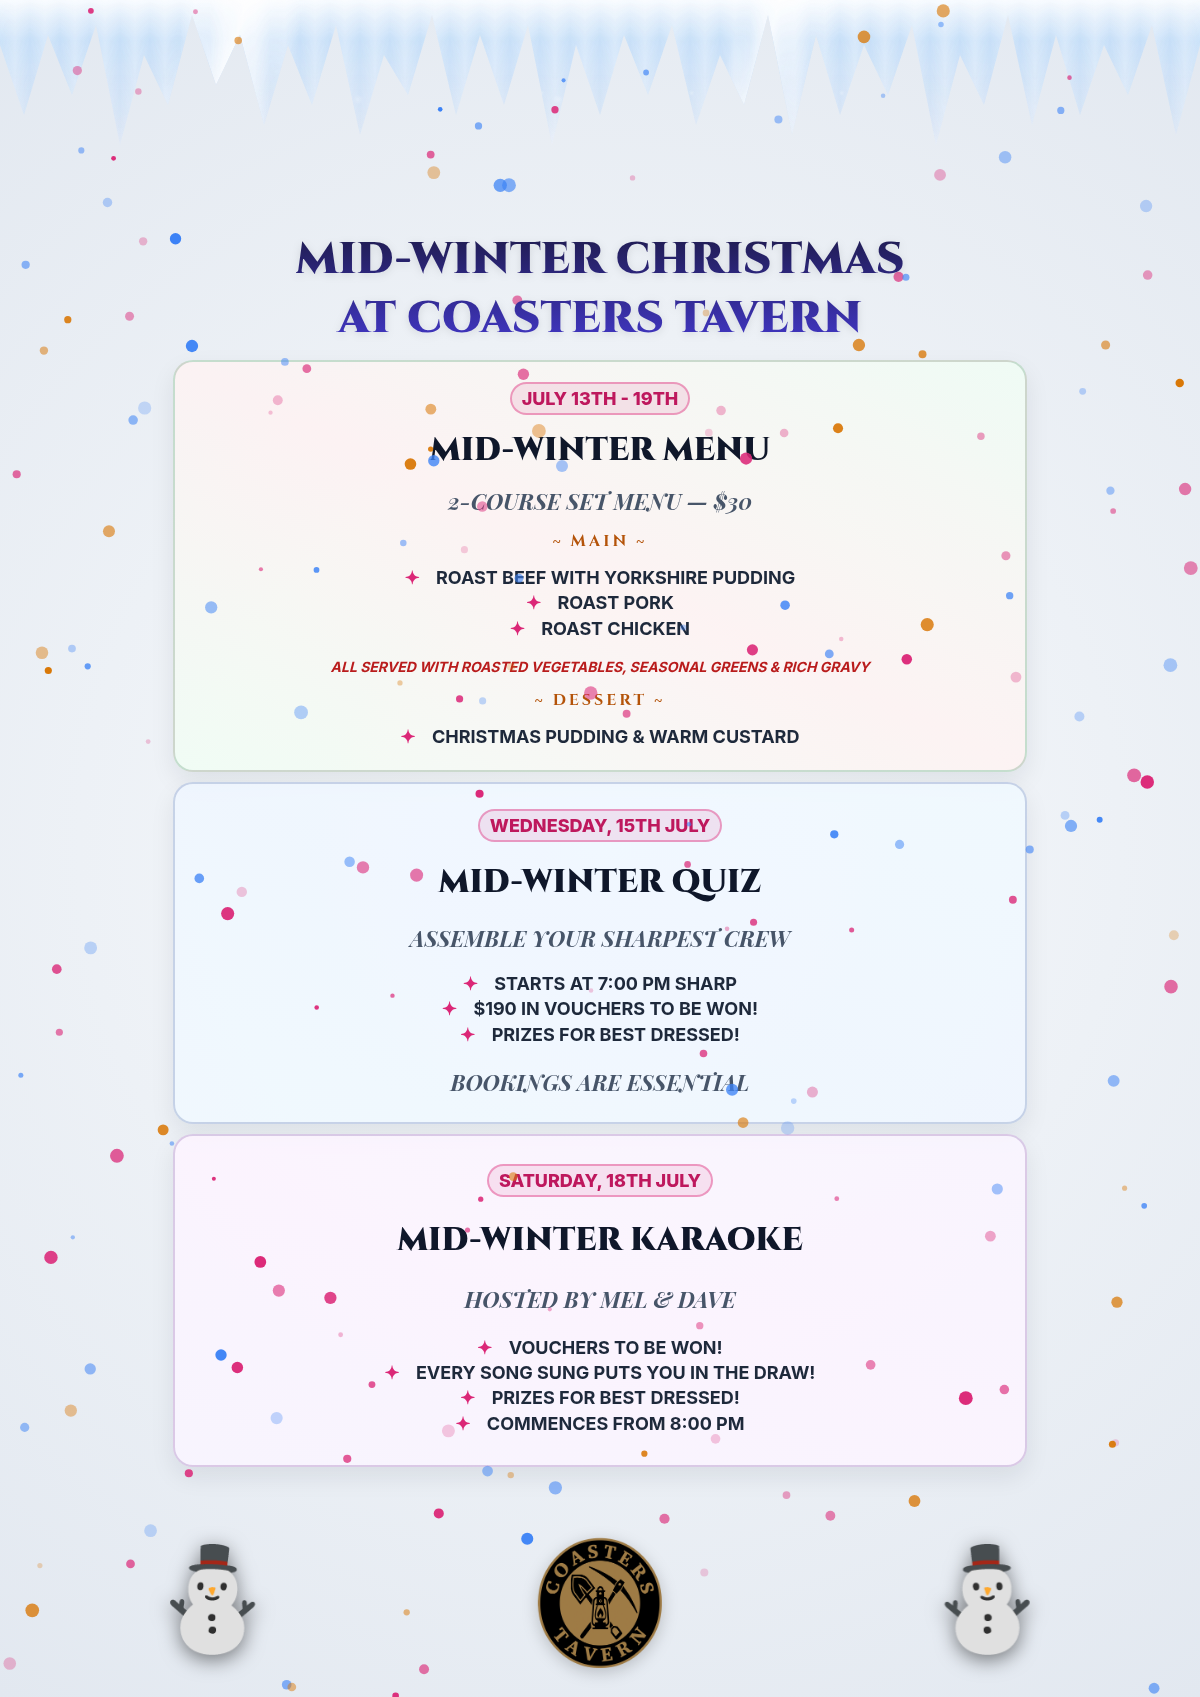
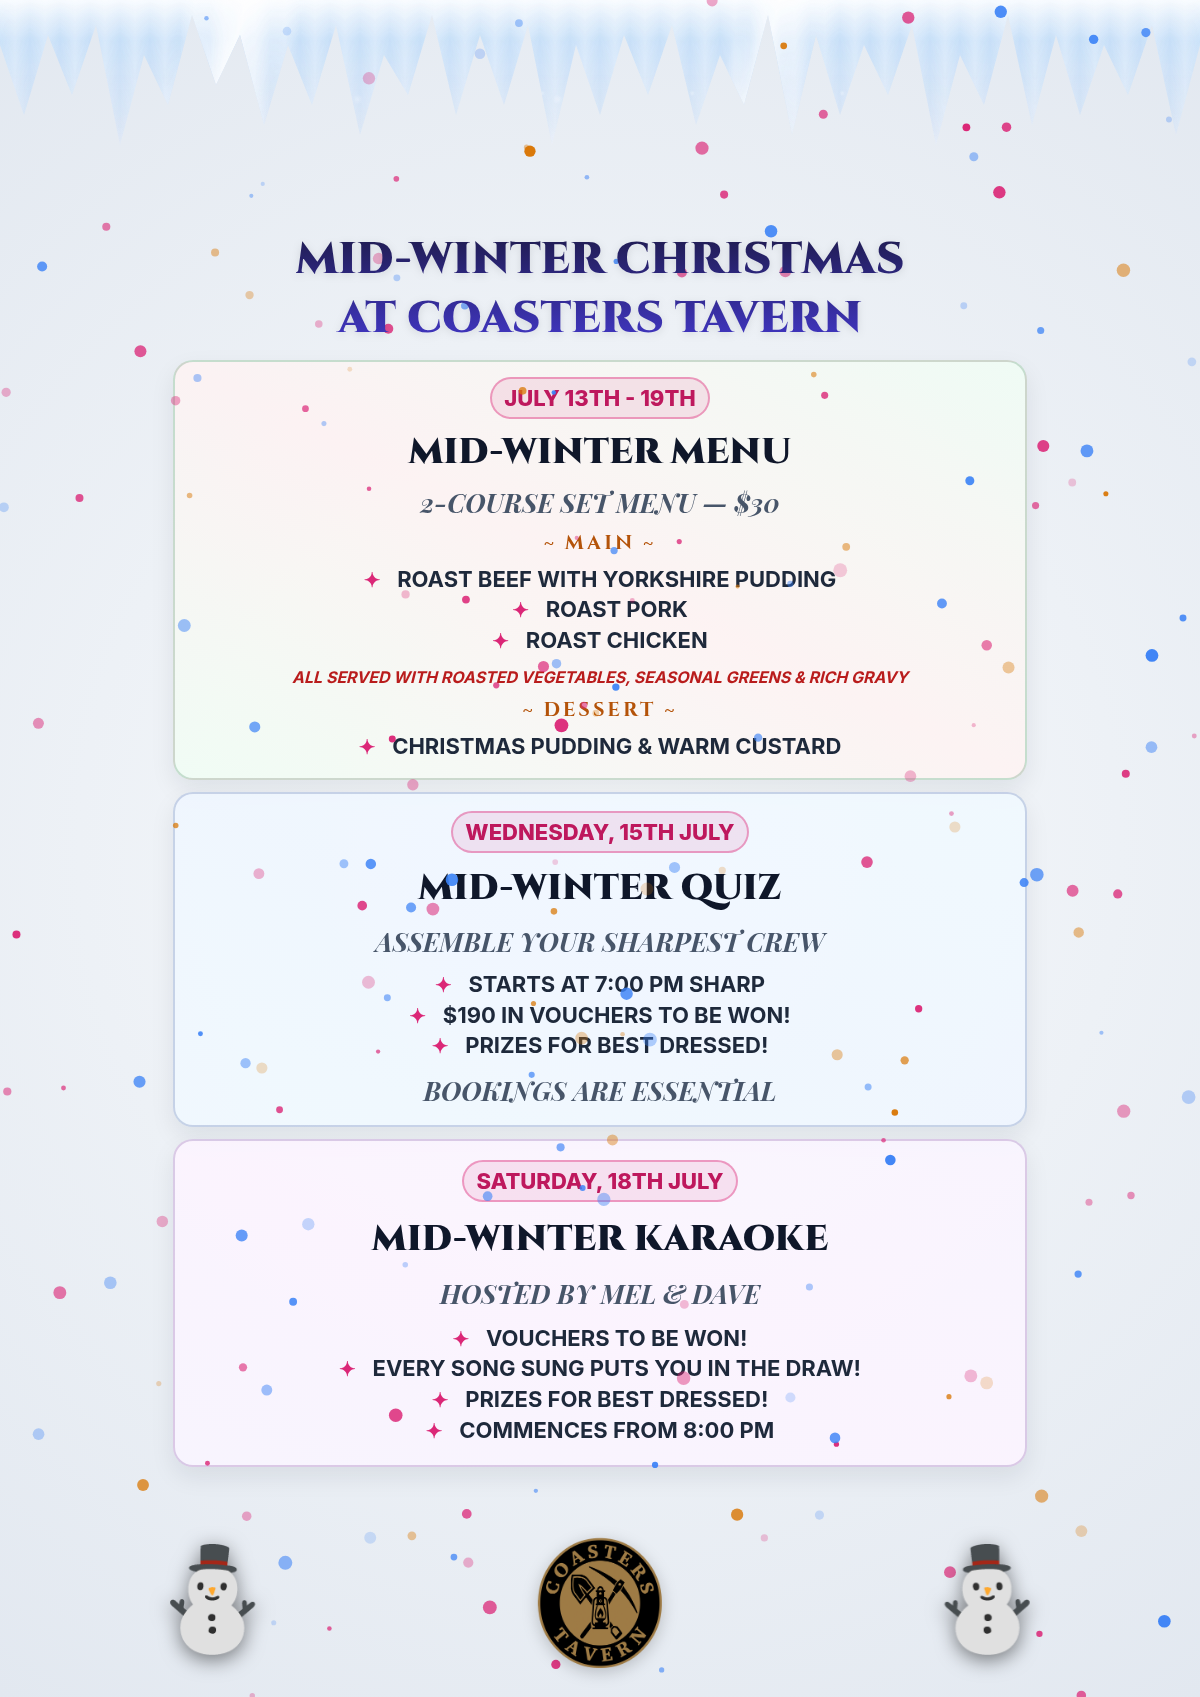
Enlarge poster text sizes to maximum safe dimensions without overspill or awkward wrapping

diff --git a/poster_all_a3_dark.html b/poster_all_a3_dark.html
@@ -67,30 +67,30 @@
             font-family: 'Cinzel', serif; font-size: 64px; font-weight: 900; 
             background: linear-gradient(to bottom, #ffffff, #fde047, #f472b6); 
             -webkit-background-clip: text; color: transparent; text-align: center; 
-            margin-top: 0px; margin-bottom: 20px; z-index: 40; position: relative; text-transform: uppercase;
+            margin-top: 0px; margin-bottom: 16px; z-index: 40; position: relative; text-transform: uppercase;
             filter: brightness(1.2) drop-shadow(0 0 20px rgba(255, 255, 255, 0.8)) drop-shadow(0 0 30px rgba(59, 130, 246, 1));
         }
         .slide-container { 
             display: flex; flex-direction: column; align-items: center; 
             justify-content: space-evenly; height: 100%; width: 100%; 
-            position: relative; z-index: 20; padding-bottom: 0px; box-sizing: border-box; flex-grow: 1; gap: 16px;
+            position: relative; z-index: 20; padding-bottom: 0px; box-sizing: border-box; flex-grow: 1; gap: 12px;
         }
         .glass-box {
             border-radius: 20px;
-            border: 2px solid rgba(255, 255, 255, 0.2); padding: 14px 24px;
+            border: 2px solid rgba(255, 255, 255, 0.2); padding: 12px 24px;
             box-shadow: 0 10px 25px rgba(0, 0, 0, 0.8), inset 0 0 20px rgba(255,255,255,0.1); 
             text-align: center; width: 100%; box-sizing: border-box;
             display: flex; flex-direction: column; justify-content: space-evenly; align-items: center;
-            flex-grow: 1; gap: 6px;
+            flex-grow: 1; gap: 4px;
         }
         h1 { font-family: 'Cinzel', serif; font-size: 40px; font-weight: 900; color: #fff; margin: 0; text-shadow: 0 3px 10px rgba(0,0,0,0.5), 0 0 20px rgba(59, 130, 246, 0.8); }
-        h2 { font-family: 'Playfair Display', serif; font-size: 26px; font-weight: bold; font-style: italic; color: #fce7f3; margin: 0; text-shadow: 0 3px 10px rgba(0,0,0,0.5), 0 0 20px rgba(59, 130, 246, 0.8); }
-        .course-title { font-family: 'Cinzel', serif; font-size: 20px; font-weight: bold; color: #fbbf24; margin: 0; letter-spacing: 4px; text-shadow: 0 0 15px rgba(59, 130, 246, 0.8); }
-        .date-badge { display: inline-block; background: rgba(0, 0, 0, 0.3); border: 2px solid rgba(236, 72, 153, 0.6); padding: 6px 14px; font-size: 22px; color: #f9a8d4; border-radius: 50px; margin: 0; box-shadow: 0 3px 10px rgba(0,0,0,0.5); font-weight: 900; }
+        h2 { font-family: 'Playfair Display', serif; font-size: 28px; font-weight: bold; font-style: italic; color: #fce7f3; margin: 0; text-shadow: 0 3px 10px rgba(0,0,0,0.5), 0 0 20px rgba(59, 130, 246, 0.8); }
+        .course-title { font-family: 'Cinzel', serif; font-size: 22px; font-weight: bold; color: #fbbf24; margin: 0; letter-spacing: 4px; text-shadow: 0 0 15px rgba(59, 130, 246, 0.8); }
+        .date-badge { display: inline-block; background: rgba(0, 0, 0, 0.3); border: 2px solid rgba(236, 72, 153, 0.6); padding: 6px 14px; font-size: 24px; color: #f9a8d4; border-radius: 50px; margin: 0; box-shadow: 0 3px 10px rgba(0,0,0,0.5); font-weight: 900; }
         ul { list-style: none; padding: 0; margin: 0; text-align: center; width: 100%; }
-        li { font-size: 22px; font-weight: bold; margin-bottom: 3px; color: #e0e0e0; text-shadow: 0 2px 8px rgba(0,0,0,0.8); line-height: 1.3;}
+        li { font-size: 24px; font-weight: bold; margin-bottom: 3px; color: #e0e0e0; text-shadow: 0 2px 8px rgba(0,0,0,0.8); line-height: 1.3;}
         li::before { content: '✦ '; color: #ec4899; font-size: 22px; margin-right: 12px; }
-        .small-text { font-size: 16px; font-weight: bold; font-style: italic; color: #f9a8d4; margin-top: 2px; text-shadow: 0 2px 8px rgba(0,0,0,0.8); text-align: center; }
+        .small-text { font-size: 18px; font-weight: bold; font-style: italic; color: #f9a8d4; margin-top: 2px; text-shadow: 0 2px 8px rgba(0,0,0,0.8); text-align: center; }
     </style>
 </head>
 <body>

diff --git a/poster_all_a3_light.html b/poster_all_a3_light.html
@@ -66,30 +66,30 @@
             font-family: 'Cinzel', serif; font-size: 64px; font-weight: 900; 
             background: linear-gradient(to bottom, #1e1b4b, #4338ca); 
             -webkit-background-clip: text; color: transparent; text-align: center; 
-            margin-top: 0px; margin-bottom: 20px; z-index: 40; position: relative; text-transform: uppercase;
+            margin-top: 0px; margin-bottom: 16px; z-index: 40; position: relative; text-transform: uppercase;
             filter: drop-shadow(0 2px 4px rgba(0,0,0,0.1));
         }
         .slide-container { 
             display: flex; flex-direction: column; align-items: center; 
             justify-content: space-evenly; height: 100%; width: 100%; 
-            position: relative; z-index: 20; padding-bottom: 0px; box-sizing: border-box; flex-grow: 1; gap: 16px;
+            position: relative; z-index: 20; padding-bottom: 0px; box-sizing: border-box; flex-grow: 1; gap: 12px;
         }
         .glass-box {
             border-radius: 20px;
-            border: 2px solid rgba(15, 23, 42, 0.15); padding: 14px 24px;
+            border: 2px solid rgba(15, 23, 42, 0.15); padding: 12px 24px;
             box-shadow: 0 10px 25px rgba(15, 23, 42, 0.08); 
             text-align: center; width: 100%; box-sizing: border-box;
             display: flex; flex-direction: column; justify-content: space-evenly; align-items: center;
-            flex-grow: 1; gap: 6px;
+            flex-grow: 1; gap: 4px;
         }
         h1 { font-family: 'Cinzel', serif; font-size: 40px; font-weight: 900; color: #0f172a; margin: 0; }
-        h2 { font-family: 'Playfair Display', serif; font-size: 26px; font-weight: bold; font-style: italic; color: #475569; margin: 0; }
-        .course-title { font-family: 'Cinzel', serif; font-size: 20px; font-weight: bold; color: #b45309; margin: 0; letter-spacing: 4px; }
-        .date-badge { display: inline-block; background: rgba(219, 39, 119, 0.1); border: 2px solid rgba(219, 39, 119, 0.4); padding: 6px 14px; font-size: 22px; color: #be185d; border-radius: 50px; margin: 0; font-weight: 900; }
+        h2 { font-family: 'Playfair Display', serif; font-size: 28px; font-weight: bold; font-style: italic; color: #475569; margin: 0; }
+        .course-title { font-family: 'Cinzel', serif; font-size: 22px; font-weight: bold; color: #b45309; margin: 0; letter-spacing: 4px; }
+        .date-badge { display: inline-block; background: rgba(219, 39, 119, 0.1); border: 2px solid rgba(219, 39, 119, 0.4); padding: 6px 14px; font-size: 24px; color: #be185d; border-radius: 50px; margin: 0; font-weight: 900; }
         ul { list-style: none; padding: 0; margin: 0; text-align: center; width: 100%; }
-        li { font-size: 22px; font-weight: bold; margin-bottom: 3px; color: #1e293b; line-height: 1.3;}
+        li { font-size: 24px; font-weight: bold; margin-bottom: 3px; color: #1e293b; line-height: 1.3;}
         li::before { content: '✦ '; color: #db2777; font-size: 22px; margin-right: 12px; }
-        .small-text { font-size: 16px; font-weight: bold; font-style: italic; color: #b91c1c; margin-top: 2px; text-align: center; }
+        .small-text { font-size: 18px; font-weight: bold; font-style: italic; color: #b91c1c; margin-top: 2px; text-align: center; }
     </style>
 </head>
 <body>

diff --git a/poster_all_dark.html b/poster_all_dark.html
@@ -73,7 +73,7 @@
         .slide-container { 
             display: flex; flex-direction: column; align-items: center; 
             justify-content: space-evenly; height: 100%; width: 100%; 
-            position: relative; z-index: 20; padding-bottom: 0px; box-sizing: border-box; flex-grow: 1; gap: 10px;
+            position: relative; z-index: 20; padding-bottom: 0px; box-sizing: border-box; flex-grow: 1; gap: 12px;
         }
         .glass-box {
             border-radius: 20px;
@@ -83,14 +83,14 @@
             display: flex; flex-direction: column; justify-content: space-evenly; align-items: center;
             flex-grow: 1; gap: 4px;
         }
-        h1 { font-family: 'Cinzel', serif; font-size: 32px; font-weight: 900; color: #fff; margin: 0; text-shadow: 0 3px 10px rgba(0,0,0,0.5), 0 0 20px rgba(59, 130, 246, 0.8); }
-        h2 { font-family: 'Playfair Display', serif; font-size: 22px; font-weight: bold; font-style: italic; color: #fce7f3; margin: 0; text-shadow: 0 3px 10px rgba(0,0,0,0.5), 0 0 20px rgba(59, 130, 246, 0.8); }
-        .course-title { font-family: 'Cinzel', serif; font-size: 16px; font-weight: bold; color: #fbbf24; margin: 0; letter-spacing: 3px; text-shadow: 0 0 15px rgba(59, 130, 246, 0.8); }
-        .date-badge { display: inline-block; background: rgba(0, 0, 0, 0.3); border: 2px solid rgba(236, 72, 153, 0.6); padding: 4px 10px; font-size: 18px; color: #f9a8d4; border-radius: 50px; margin: 0; box-shadow: 0 3px 10px rgba(0,0,0,0.5); font-weight: 900; }
+        h1 { font-family: 'Cinzel', serif; font-size: 36px; font-weight: 900; color: #fff; margin: 0; text-shadow: 0 3px 10px rgba(0,0,0,0.5), 0 0 20px rgba(59, 130, 246, 0.8); }
+        h2 { font-family: 'Playfair Display', serif; font-size: 26px; font-weight: bold; font-style: italic; color: #fce7f3; margin: 0; text-shadow: 0 3px 10px rgba(0,0,0,0.5), 0 0 20px rgba(59, 130, 246, 0.8); }
+        .course-title { font-family: 'Cinzel', serif; font-size: 20px; font-weight: bold; color: #fbbf24; margin: 0; letter-spacing: 3px; text-shadow: 0 0 15px rgba(59, 130, 246, 0.8); }
+        .date-badge { display: inline-block; background: rgba(0, 0, 0, 0.3); border: 2px solid rgba(236, 72, 153, 0.6); padding: 6px 12px; font-size: 22px; color: #f9a8d4; border-radius: 50px; margin: 0; box-shadow: 0 3px 10px rgba(0,0,0,0.5); font-weight: 900; }
         ul { list-style: none; padding: 0; margin: 0; text-align: center; width: 100%; }
-        li { font-size: 18px; font-weight: bold; margin-bottom: 2px; color: #e0e0e0; text-shadow: 0 2px 8px rgba(0,0,0,0.8); line-height: 1.3;}
-        li::before { content: '✦ '; color: #ec4899; font-size: 18px; margin-right: 12px; }
-        .small-text { font-size: 14px; font-weight: bold; font-style: italic; color: #f9a8d4; margin-top: 2px; text-shadow: 0 2px 8px rgba(0,0,0,0.8); text-align: center; }
+        li { font-size: 22px; font-weight: bold; margin-bottom: 2px; color: #e0e0e0; text-shadow: 0 2px 8px rgba(0,0,0,0.8); line-height: 1.3;}
+        li::before { content: '✦ '; color: #ec4899; font-size: 20px; margin-right: 12px; }
+        .small-text { font-size: 16px; font-weight: bold; font-style: italic; color: #f9a8d4; margin-top: 2px; text-shadow: 0 2px 8px rgba(0,0,0,0.8); text-align: center; }
     </style>
 </head>
 <body>

diff --git a/poster_all.html b/poster_all.html
@@ -72,7 +72,7 @@
         .slide-container { 
             display: flex; flex-direction: column; align-items: center; 
             justify-content: space-evenly; height: 100%; width: 100%; 
-            position: relative; z-index: 20; padding-bottom: 0px; box-sizing: border-box; flex-grow: 1; gap: 10px;
+            position: relative; z-index: 20; padding-bottom: 0px; box-sizing: border-box; flex-grow: 1; gap: 12px;
         }
         .glass-box {
             border-radius: 20px;
@@ -82,14 +82,14 @@
             display: flex; flex-direction: column; justify-content: space-evenly; align-items: center;
             flex-grow: 1; gap: 4px;
         }
-        h1 { font-family: 'Cinzel', serif; font-size: 32px; font-weight: 900; color: #0f172a; margin: 0; }
-        h2 { font-family: 'Playfair Display', serif; font-size: 22px; font-weight: bold; font-style: italic; color: #475569; margin: 0; }
-        .course-title { font-family: 'Cinzel', serif; font-size: 16px; font-weight: bold; color: #b45309; margin: 0; letter-spacing: 3px; }
-        .date-badge { display: inline-block; background: rgba(219, 39, 119, 0.1); border: 2px solid rgba(219, 39, 119, 0.4); padding: 4px 10px; font-size: 18px; color: #be185d; border-radius: 50px; margin: 0; font-weight: 900; }
+        h1 { font-family: 'Cinzel', serif; font-size: 36px; font-weight: 900; color: #0f172a; margin: 0; }
+        h2 { font-family: 'Playfair Display', serif; font-size: 26px; font-weight: bold; font-style: italic; color: #475569; margin: 0; }
+        .course-title { font-family: 'Cinzel', serif; font-size: 20px; font-weight: bold; color: #b45309; margin: 0; letter-spacing: 3px; }
+        .date-badge { display: inline-block; background: rgba(219, 39, 119, 0.1); border: 2px solid rgba(219, 39, 119, 0.4); padding: 6px 12px; font-size: 22px; color: #be185d; border-radius: 50px; margin: 0; font-weight: 900; }
         ul { list-style: none; padding: 0; margin: 0; text-align: center; width: 100%; }
-        li { font-size: 18px; font-weight: bold; margin-bottom: 2px; color: #1e293b; line-height: 1.3;}
-        li::before { content: '✦ '; color: #db2777; font-size: 18px; margin-right: 12px; }
-        .small-text { font-size: 14px; font-weight: bold; font-style: italic; color: #b91c1c; margin-top: 2px; text-align: center; }
+        li { font-size: 22px; font-weight: bold; margin-bottom: 2px; color: #1e293b; line-height: 1.3;}
+        li::before { content: '✦ '; color: #db2777; font-size: 20px; margin-right: 12px; }
+        .small-text { font-size: 16px; font-weight: bold; font-style: italic; color: #b91c1c; margin-top: 2px; text-align: center; }
     </style>
 </head>
 <body>

diff --git a/poster_menu_dark.html b/poster_menu_dark.html
@@ -76,14 +76,14 @@
             display: flex; flex-direction: column; justify-content: space-evenly; align-items: center;
             flex-grow: 1; position: relative; z-index: 20;
         }
-        h1 { font-family: 'Cinzel', serif; font-size: 60px; font-weight: 900; color: #fff; margin: 0; text-shadow: 0 0 20px rgba(59, 130, 246, 0.8); }
-        h2 { font-family: 'Playfair Display', serif; font-size: 46px; font-weight: bold; font-style: italic; color: #fce7f3; margin: 0; text-shadow: 0 0 20px rgba(59, 130, 246, 0.8); }
-        .course-title { font-family: 'Cinzel', serif; font-size: 40px; font-weight: bold; color: #fbbf24; margin: 0; letter-spacing: 4px; text-shadow: 0 0 15px rgba(59, 130, 246, 0.8); }
-        .date-badge { display: inline-block; background: rgba(217, 70, 239, 0.2); border: 2px solid rgba(236, 72, 153, 0.4); padding: 10px 25px; font-size: 30px; color: #f9a8d4; border-radius: 50px; margin: 0; font-weight: 900;}
+        h1 { font-family: 'Cinzel', serif; font-size: 52px; font-weight: 900; color: #fff; margin: 0; text-shadow: 0 0 20px rgba(59, 130, 246, 0.8); }
+        h2 { font-family: 'Playfair Display', serif; font-size: 38px; font-weight: bold; font-style: italic; color: #fce7f3; margin: 0; text-shadow: 0 0 20px rgba(59, 130, 246, 0.8); }
+        .course-title { font-family: 'Cinzel', serif; font-size: 32px; font-weight: bold; color: #fbbf24; margin: 0; letter-spacing: 4px; text-shadow: 0 0 15px rgba(59, 130, 246, 0.8); }
+        .date-badge { display: inline-block; background: rgba(217, 70, 239, 0.2); border: 2px solid rgba(236, 72, 153, 0.4); padding: 8px 18px; font-size: 24px; color: #f9a8d4; border-radius: 50px; margin: 0; font-weight: 900;}
         ul { list-style: none; padding: 0; margin: 0; text-align: center; width: 100%; }
-        li { font-size: 40px; font-weight: bold; margin-bottom: 10px; color: #e0e0e0; line-height: 1.3;}
-        li::before { content: '✦ '; color: #ec4899; font-size: 34px; margin-right: 10px; }
-        .small-text { font-size: 30px; font-weight: bold; font-style: italic; color: #f9a8d4; margin-top: 5px; text-align: center; }
+        li { font-size: 34px; font-weight: bold; margin-bottom: 8px; color: #e0e0e0; line-height: 1.3;}
+        li::before { content: '✦ '; color: #ec4899; font-size: 30px; margin-right: 10px; }
+        .small-text { font-size: 24px; font-weight: bold; font-style: italic; color: #f9a8d4; margin-top: 5px; text-align: center; }
     </style>
 </head>
 <body>

diff --git a/poster_menu.html b/poster_menu.html
@@ -76,14 +76,14 @@
             display: flex; flex-direction: column; justify-content: space-evenly; align-items: center;
             flex-grow: 1; position: relative; z-index: 20;
         }
-        h1 { font-family: 'Cinzel', serif; font-size: 60px; font-weight: 900; color: #0f172a; margin: 0; }
-        h2 { font-family: 'Playfair Display', serif; font-size: 46px; font-weight: bold; font-style: italic; color: #475569; margin: 0; }
-        .course-title { font-family: 'Cinzel', serif; font-size: 40px; font-weight: bold; color: #b45309; margin: 0; letter-spacing: 4px; }
-        .date-badge { display: inline-block; background: rgba(219, 39, 119, 0.1); border: 2px solid rgba(219, 39, 119, 0.4); padding: 10px 25px; font-size: 30px; color: #be185d; border-radius: 50px; margin: 0; font-weight: 900;}
+        h1 { font-family: 'Cinzel', serif; font-size: 52px; font-weight: 900; color: #0f172a; margin: 0; }
+        h2 { font-family: 'Playfair Display', serif; font-size: 38px; font-weight: bold; font-style: italic; color: #475569; margin: 0; }
+        .course-title { font-family: 'Cinzel', serif; font-size: 32px; font-weight: bold; color: #b45309; margin: 0; letter-spacing: 4px; }
+        .date-badge { display: inline-block; background: rgba(219, 39, 119, 0.1); border: 2px solid rgba(219, 39, 119, 0.4); padding: 8px 18px; font-size: 24px; color: #be185d; border-radius: 50px; margin: 0; font-weight: 900;}
         ul { list-style: none; padding: 0; margin: 0; text-align: center; width: 100%; }
-        li { font-size: 40px; font-weight: bold; margin-bottom: 10px; color: #1e293b; line-height: 1.3;}
-        li::before { content: '✦ '; color: #db2777; font-size: 34px; margin-right: 10px; }
-        .small-text { font-size: 30px; font-weight: bold; font-style: italic; color: #b91c1c; margin-top: 5px; text-align: center; }
+        li { font-size: 34px; font-weight: bold; margin-bottom: 8px; color: #1e293b; line-height: 1.3;}
+        li::before { content: '✦ '; color: #db2777; font-size: 30px; margin-right: 10px; }
+        .small-text { font-size: 24px; font-weight: bold; font-style: italic; color: #b91c1c; margin-top: 5px; text-align: center; }
     </style>
 </head>
 <body>
